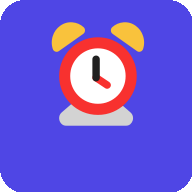
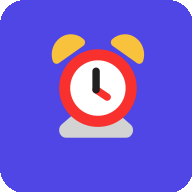
fix: 图标居中，manifest使用绝对URL，添加assetlinks

Changed region(s): [[0.25, 0.0938, 0.75, 0.7188]]

diff --git a/sw.js b/sw.js
@@ -1,11 +1,11 @@
 // 提示气 - Service Worker
-const CACHE_NAME = 'tishiqi-v2';
+const CACHE_NAME = 'tishiqi-v3';
 const ASSETS = [
-    '/tishiqi/',
-    '/tishiqi/index.html',
-    '/tishiqi/style.css',
-    '/tishiqi/app.js',
-    '/tishiqi/manifest.json',
+    'https://111-app.github.io/tishiqi/',
+    'https://111-app.github.io/tishiqi/index.html',
+    'https://111-app.github.io/tishiqi/style.css',
+    'https://111-app.github.io/tishiqi/app.js',
+    'https://111-app.github.io/tishiqi/manifest.json',
 ];
 
 // 安装：缓存静态资源
@@ -39,7 +39,7 @@ self.addEventListener('fetch', (event) => {
                 return response;
             });
         }).catch(() => {
-            return caches.match('/tishiqi/index.html');
+            return caches.match('https://111-app.github.io/tishiqi/index.html');
         })
     );
 });

diff --git a/gen-icons.py b/gen-icons.py
@@ -1,0 +1,32 @@
+# -*- coding: utf-8 -*-
+from PIL import Image, ImageDraw, ImageFont
+
+def create_icon(size):
+    # 渐变背景
+    img = Image.new('RGBA', (size, size), (0, 0, 0, 0))
+    draw = ImageDraw.Draw(img)
+    
+    # 绘制圆角矩形背景（紫蓝渐变模拟）
+    radius = size // 8
+    draw.rounded_rectangle([0, 0, size, size], radius=radius, fill=(79, 70, 229, 255))
+    
+    # 绘制时钟图标 ⏰
+    # 使用 Emoji 字体或默认字体
+    try:
+        font = ImageFont.truetype("seguiemj.ttf", size=int(size * 0.55))
+    except:
+        try:
+            font = ImageFont.truetype("arial.ttf", size=int(size * 0.55))
+        except:
+            font = ImageFont.load_default()
+    
+    text = "⏰"
+    # 使用中心点对齐，确保图标完全居中
+    draw.text((size // 2, size // 2), text, font=font, embedded_color=True, anchor="mm")
+    return img
+
+# 生成 192x192 和 512x512
+for s in [192, 512]:
+    img = create_icon(s)
+    img.save(f"icon-{s}.png", "PNG")
+    print(f"Generated icon-{s}.png")